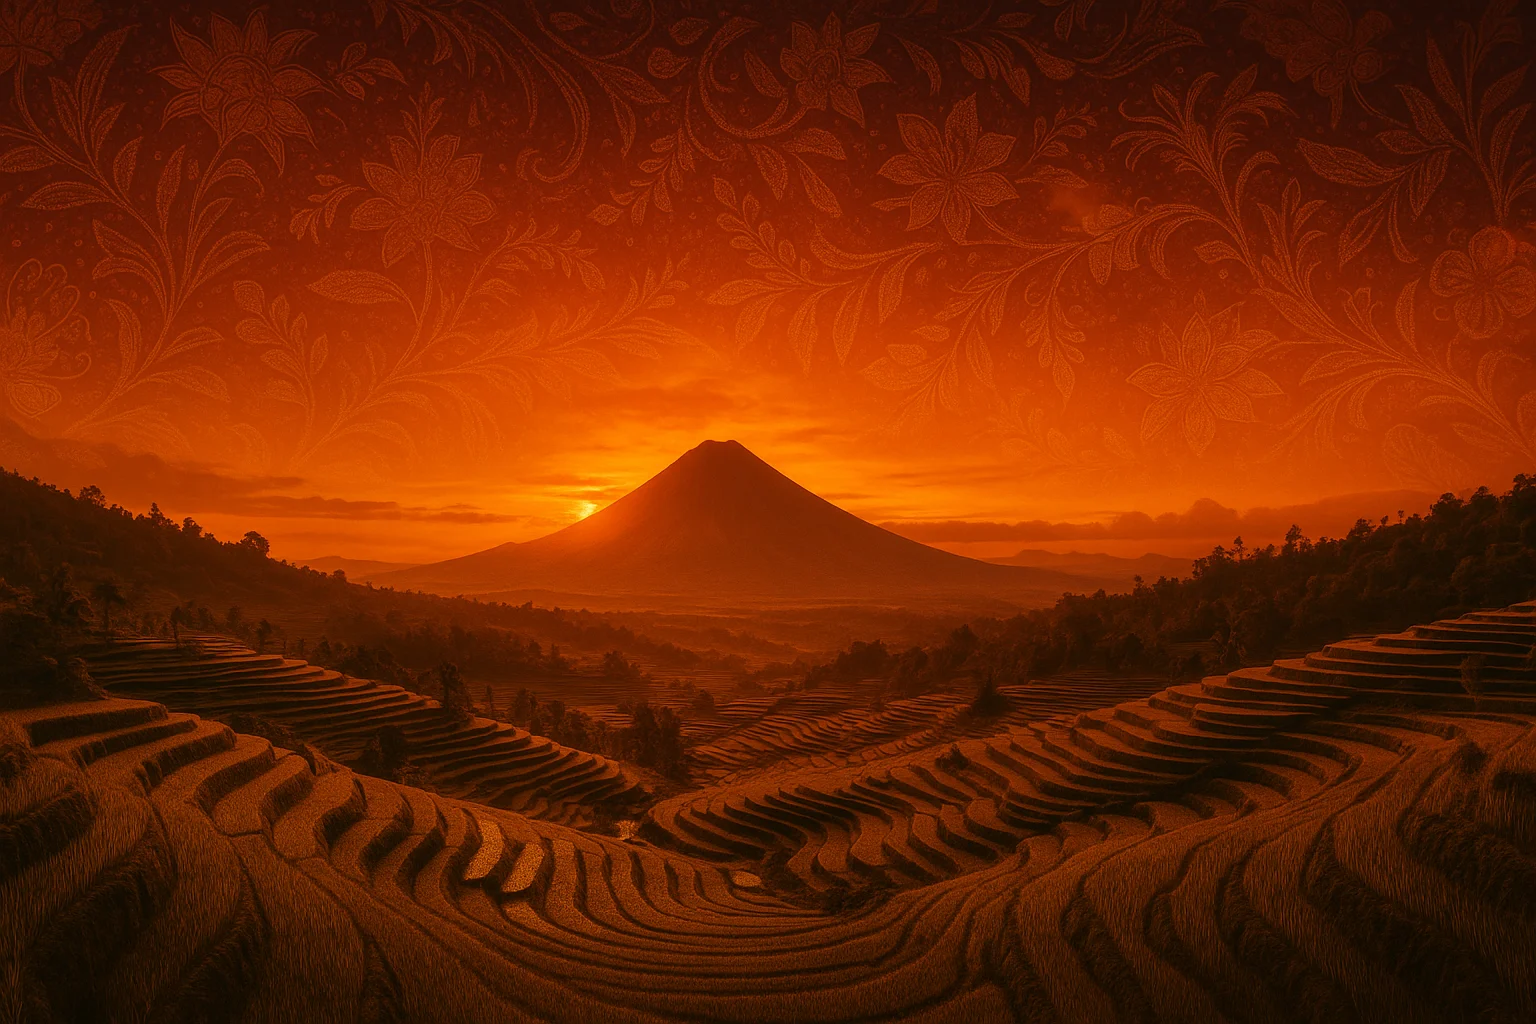
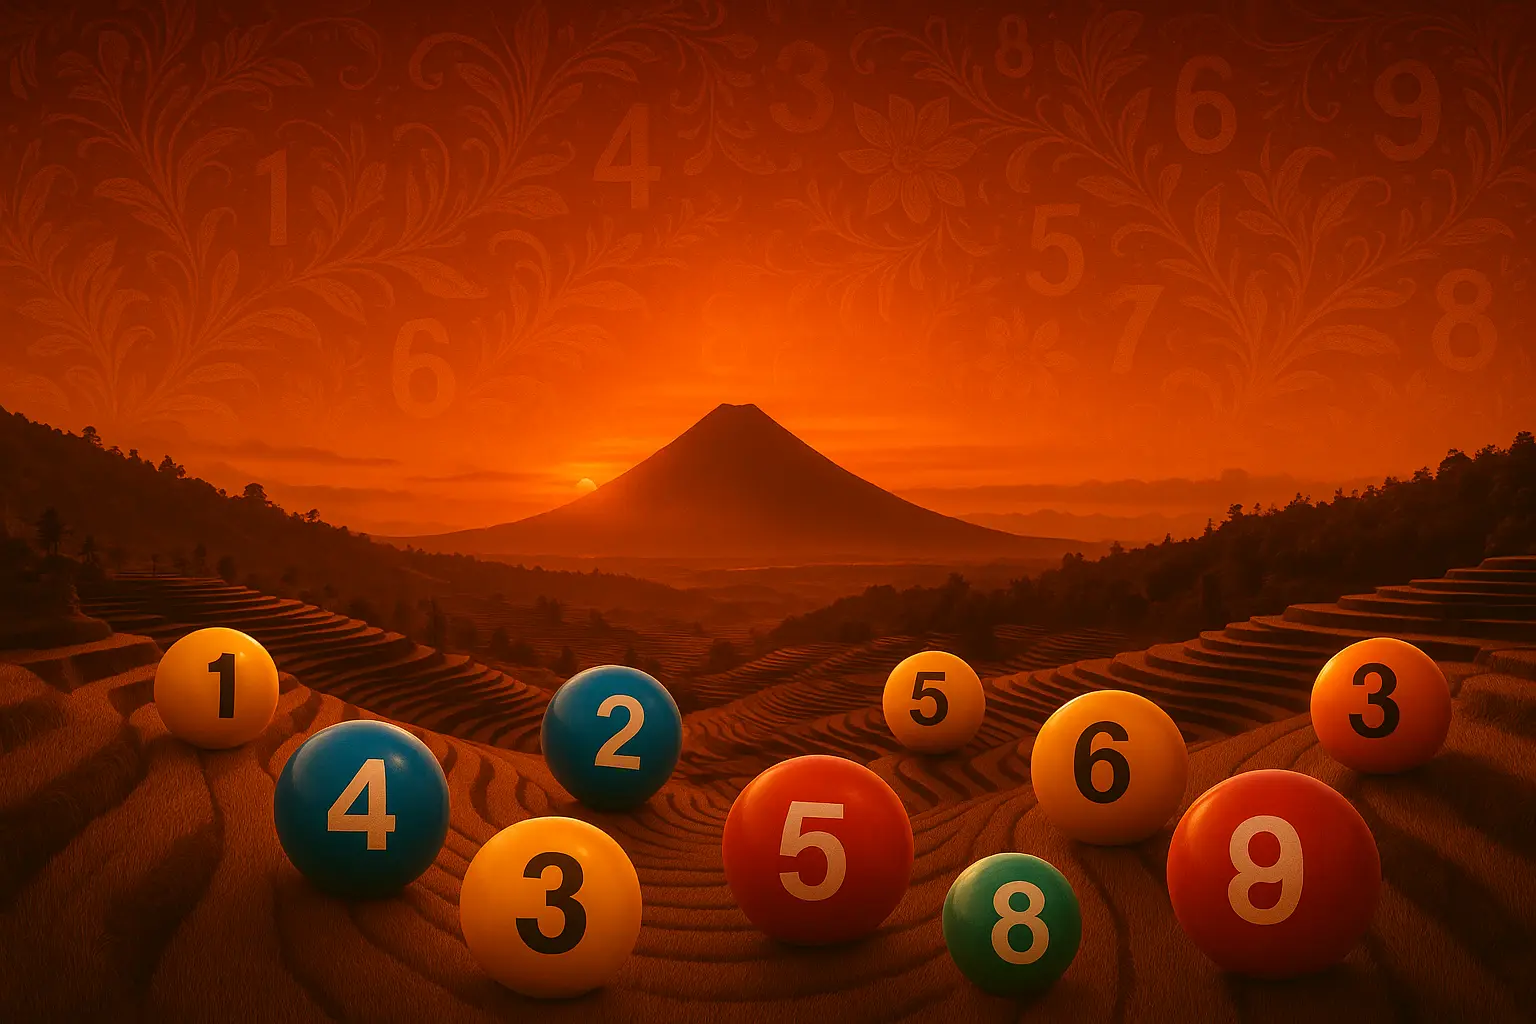
final

diff --git a/frontend/src/components/CityPoolCard.jsx b/frontend/src/components/CityPoolCard.jsx
@@ -1,45 +1,67 @@
-// components/CityPoolCard.jsx
 import { useEffect, useState } from 'react';
 
 export default function CityPoolCard({
   city,
   drawDate,
-  firstPrize,
-  secondPrize,
-  thirdPrize,
-  numbers,
+  firstPrize = '',
+  secondPrize = '',
+  thirdPrize = '',
 }) {
-  const nums = numbers
-    ? Array.isArray(numbers)
-      ? numbers
-      : typeof numbers === 'string'
-        ? numbers.split(/[\s,-]+/).map(n => n.trim()).filter(Boolean)
-        : []
-    : [firstPrize, secondPrize, thirdPrize].filter(Boolean);
   const [mounted, setMounted] = useState(false);
   useEffect(() => {
     setMounted(true);
     return () => setMounted(false);
-  }, [drawDate, firstPrize, secondPrize, thirdPrize, numbers]);
+  }, [drawDate, firstPrize, secondPrize, thirdPrize]);
 
-  const dateObj = drawDate ? new Date(drawDate) : null;
-  const formattedDate = dateObj
-    ? dateObj.toLocaleDateString('id-ID', {
-        weekday: 'short', day: 'numeric', month: 'short', year: 'numeric'
-      })
-    : '-';
-  const formattedTime = dateObj
-    ? dateObj.toLocaleTimeString('id-ID', {             hour: '2-digit', minute: '2-digit',
-            timeZone: 'Asia/Jakarta' })
-    : '-';
+  // Pisahkan tanggal dan waktu dari ISO string
+  const raw = drawDate || '';
+  const [datePart = '', timeWithOffset = ''] = raw.split('T');
+  const timePart = timeWithOffset.split(/[.Z]/)[0] || '';
+
+  // Format tanggal tanpa konversi zona (asumsikan datePart sudah dalam WIB)
+  let formattedDate = '-';
+  if (datePart) {
+    const [year, month, day] = datePart.split('-');
+    const dt = new Date(+year, +month - 1, +day);
+    formattedDate = dt.toLocaleDateString('id-ID', {
+      weekday: 'long',
+      day: 'numeric',
+      month: 'long',
+      year: 'numeric',
+    });
+  }
+
+  // Tampilkan jam:menit persis dari input
+  const formattedTime = timePart ? timePart.slice(0, 5) : '-';
+
+  // Fungsi render bola dengan animasi
+  const renderBalls = (nums) =>
+    nums.map((n, i) => (
+      <div
+        key={i}
+        className="w-12 h-12 flex items-center justify-center rounded-full bg-gradient-to-br from-yellow-500 to-red-600 text-white font-extrabold text-lg shadow-[0_0_12px_rgba(255,0,0,0.5)] transform transition-all duration-700"
+        style={{
+          transitionDelay: `${i * 150}ms`,
+          opacity: mounted ? 1 : 0,
+          transform: mounted ? 'translateY(0)' : 'translateY(1rem)',
+        }}
+      >
+        {n}
+      </div>
+    ));
+
+  // Pecah setiap prize jadi karakter
+  const fpNums = firstPrize.split('').filter(Boolean);
+  const spNums = secondPrize.split('').filter(Boolean);
+  const tpNums = thirdPrize.split('').filter(Boolean);
 
   return (
     <div className="relative bg-gradient-to-br from-red-900 to-red-800 rounded-3xl overflow-hidden shadow-lg hover:shadow-2xl transition-transform duration-300 transform hover:-translate-y-2">
-      {/* Red neon corner accent */}
+      {/* Neon accent */}
       <div className="absolute -top-3 -left-3 w-10 h-10 bg-red-600/80 rounded-full blur-xl animate-pulse" />
 
       <div className="p-6 flex flex-col space-y-4">
-        {/* Header: City & Date */}
+        {/* Header */}
         <div className="flex justify-between items-center">
           <h3 className="text-3xl font-extrabold text-white truncate">{city || '-'}</h3>
           <time dateTime={drawDate} className="text-sm text-gray-300 italic">
@@ -47,28 +69,40 @@ export default function CityPoolCard({
           </time>
         </div>
 
-        {/* Number balls */}
-        <div className="grid grid-cols-4 gap-4 justify-items-center">
-          {nums.length > 0 ? (
-            nums.map((n, i) => (
-              <div
-                key={i}
-                className={
-                  `w-14 h-14 flex items-center justify-center rounded-full bg-gradient-to-br from-yellow-500 to-red-600 text-white font-extrabold text-xl shadow-[0_0_15px_rgba(255,0,0,0.5)] transform transition-all duration-700` +
-                  (mounted
-                    ? ` opacity-100 translate-y-0 delay-${i * 150}`
-                    : ' opacity-0 translate-y-6')
-                }
-              >
-                {n}
-              </div>
-            ))
-          ) : (
-            <p className="col-span-full text-center text-gray-400 italic">Belum ada hasil</p>
-          )}
+        {/* First Result */}
+        <div>
+          <h4 className="text-lg font-semibold text-white mb-2">1st Result</h4>
+          <div className="grid grid-cols-5 gap-4 justify-items-center">
+            {fpNums.length > 0
+              ? renderBalls(fpNums)
+              : <p className="col-span-5 text-center text-gray-400 italic">Belum ada hasil</p>
+            }
+          </div>
         </div>
 
-        {/* Footer timestamp */}
+        {/* Second Result */}
+        <div>
+          <h4 className="text-lg font-semibold text-white mb-2">2rd Result</h4>
+          <div className="grid grid-cols-5 gap-4 justify-items-center">
+            {spNums.length > 0
+              ? renderBalls(spNums)
+              : <p className="col-span-5 text-center text-gray-400 italic">Belum ada hasil</p>
+            }
+          </div>
+        </div>
+
+        {/* Third Result */}
+        <div>
+          <h4 className="text-lg font-semibold text-white mb-2">3rd Result</h4>
+          <div className="grid grid-cols-5 gap-4 justify-items-center">
+            {tpNums.length > 0
+              ? renderBalls(tpNums)
+              : <p className="col-span-5 text-center text-gray-400 italic">Belum ada hasil</p>
+            }
+          </div>
+        </div>
+
+        {/* Footer Timestamp */}
         <p className="text-center text-xs text-gray-300">
           Terakhir: <span className="font-medium text-white">{formattedTime}</span> WIB
         </p>

diff --git a/frontend/src/pages/StatsPage.jsx b/frontend/src/pages/StatsPage.jsx
@@ -20,19 +20,28 @@ export default function StatsPage() {
       .catch(console.error);
   }, []);
 
-  const displayed = filterCity ? history.filter(item => item.city === filterCity) : history;
+  const displayed = filterCity
+    ? history.filter(item => item.city === filterCity)
+    : history;
+
+  // Format helpers for date & time in WIB
+  const formatDate = iso => new Date(iso).toLocaleDateString('id-ID', {
+    weekday: 'long', day: 'numeric', month: 'long', year: 'numeric', timeZone: 'Asia/Jakarta'
+  });
+  const formatTime = iso => new Date(iso).toLocaleTimeString('id-ID', {
+    hour: '2-digit', minute: '2-digit', timeZone: 'Asia/Jakarta'
+  });
 
   return (
     <div className="flex flex-col min-h-screen bg-gradient-to-br from-purple-50 via-white to-blue-50">
       <Header />
-      {/* Box container */}
       <div className="flex-grow flex justify-center items-start py-16">
         <div className="w-full max-w-4xl bg-white rounded-3xl shadow-xl overflow-hidden">
           <main className="px-8 py-12 space-y-12">
             {/* Title */}
             <div className="text-center">
-              <h1 className="text-4xl font-extrabold text-primary mb-2">Statistik & Riwayat Nusantara Full</h1>
-              <p className="text-gray-600">Pantau data undian dan histori nomor dengan tampilan interaktif dalam tampilan boxed.</p>
+              <h1 className="text-4xl font-extrabold text-primary mb-2">Statistik &amp; Riwayat Nusantara Full</h1>
+              <p className="text-gray-600">Pantau data undian dan histori nomor dengan tampilan interaktif.</p>
             </div>
 
             {/* Overview Cards */}
@@ -70,9 +79,7 @@ export default function StatsPage() {
                   className="border border-gray-300 rounded-lg px-3 py-1 focus:ring-primary focus:border-primary"
                 >
                   <option value="">Semua Kota</option>
-                  {cities.map(c => (
-                    <option key={c} value={c}>{c}</option>
-                  ))}
+                  {cities.map(c => <option key={c} value={c}>{c}</option>)}
                 </select>
               </div>
             </section>
@@ -83,35 +90,40 @@ export default function StatsPage() {
               <div className="bg-white rounded-2xl shadow divide-y divide-gray-200">
                 <div className="grid grid-cols-3 bg-gray-100 px-6 py-3 font-medium text-gray-700 uppercase text-sm">
                   <div>Kota</div>
-                  <div>Tanggal Draw</div>
-                  <div>Nomor</div>
+                  <div>Tanggal &amp; Waktu</div>
+                  <div>Prizes</div>
                 </div>
                 <div className="max-h-96 overflow-y-auto">
                   {displayed.map((item, idx) => {
-                    const nums = [
-                      item.firstPrize,
-                      item.secondPrize,
-                      item.thirdPrize,
-                    ].filter(Boolean);
+                    const prizes = [
+                      { label: '1st Prize', value: item.firstPrize },
+                      { label: '2nd Prize', value: item.secondPrize },
+                      { label: '3rd Prize', value: item.thirdPrize },
+                    ].filter(p => p.value);
                     return (
                       <div
                         key={idx}
-                        className={
-                          `grid grid-cols-3 px-6 py-4 items-center text-sm ${
-                            idx % 2 === 0 ? 'bg-white' : 'bg-gray-50'
-                          }`
-                        }
+                        className={`grid grid-cols-3 px-6 py-4 items-start text-sm ${idx % 2 === 0 ? 'bg-white' : 'bg-gray-50'}`}
                       >
                         <div className="text-gray-800 font-medium">{item.city}</div>
                         <div className="text-gray-600">
-                          {new Date(item.drawDate).toLocaleString('id-ID', { dateStyle: 'medium', timeStyle: 'short', timeZone: 'Asia/Jakarta' })}                        </div>
-                        <div className="flex flex-wrap gap-1">
-                          {nums.map((num, i) => (
-                            <div
-                              key={i}
-                              className="w-8 h-8 flex items-center justify-center rounded-full bg-red-500 text-white text-xs font-bold"
-                            >
-                              {String(num)}
+                          <div>{formatDate(item.drawDate)}</div>
+                          <div className="text-xs">{formatTime(item.drawDate)} WIB</div>
+                        </div>
+                        <div className="space-y-3">
+                          {prizes.map((p, i) => (
+                            <div key={i} className="">
+                              <h5 className="text-xs font-semibold text-gray-700 mb-2">{p.label}</h5>
+                              <div className="flex gap-3">
+                                {String(p.value).split('').map((d, j) => (
+                                  <div
+                                    key={j}
+                                    className="w-10 h-10 flex items-center justify-center rounded-full bg-gradient-to-br from-red-600 to-red-400 text-white font-extrabold text-lg shadow-[0_0_10px_rgba(255,0,0,0.5)]"
+                                  >
+                                    {d}
+                                  </div>
+                                ))}
+                              </div>
                             </div>
                           ))}
                         </div>

diff --git a/backend/src/controllers/lottery.controller.js b/backend/src/controllers/lottery.controller.js
@@ -101,7 +101,15 @@ exports.overrideResults = async (req, res) => {
   }
 };
 function jakartaDate(input) {
-  return new Date(new Date(input || Date.now()).toLocaleString('en-US', { timeZone: 'Asia/Jakarta' }));
+  // input dari <input type="datetime-local"> seperti "2025-07-21T04:55"
+  const [datePart, timePart] = (input || '').split('T');
+  // jika format tidak sesuai, fallback ke waktu saat ini
+  if (!datePart || !timePart) {
+    return new Date();
+  }
+  // bentuk ISO dengan zona +07:00 (WIB)
+  const iso = `${datePart}T${timePart}:00+07:00`;
+  return new Date(iso);
 }
 
 exports.login = (req, res) => {
